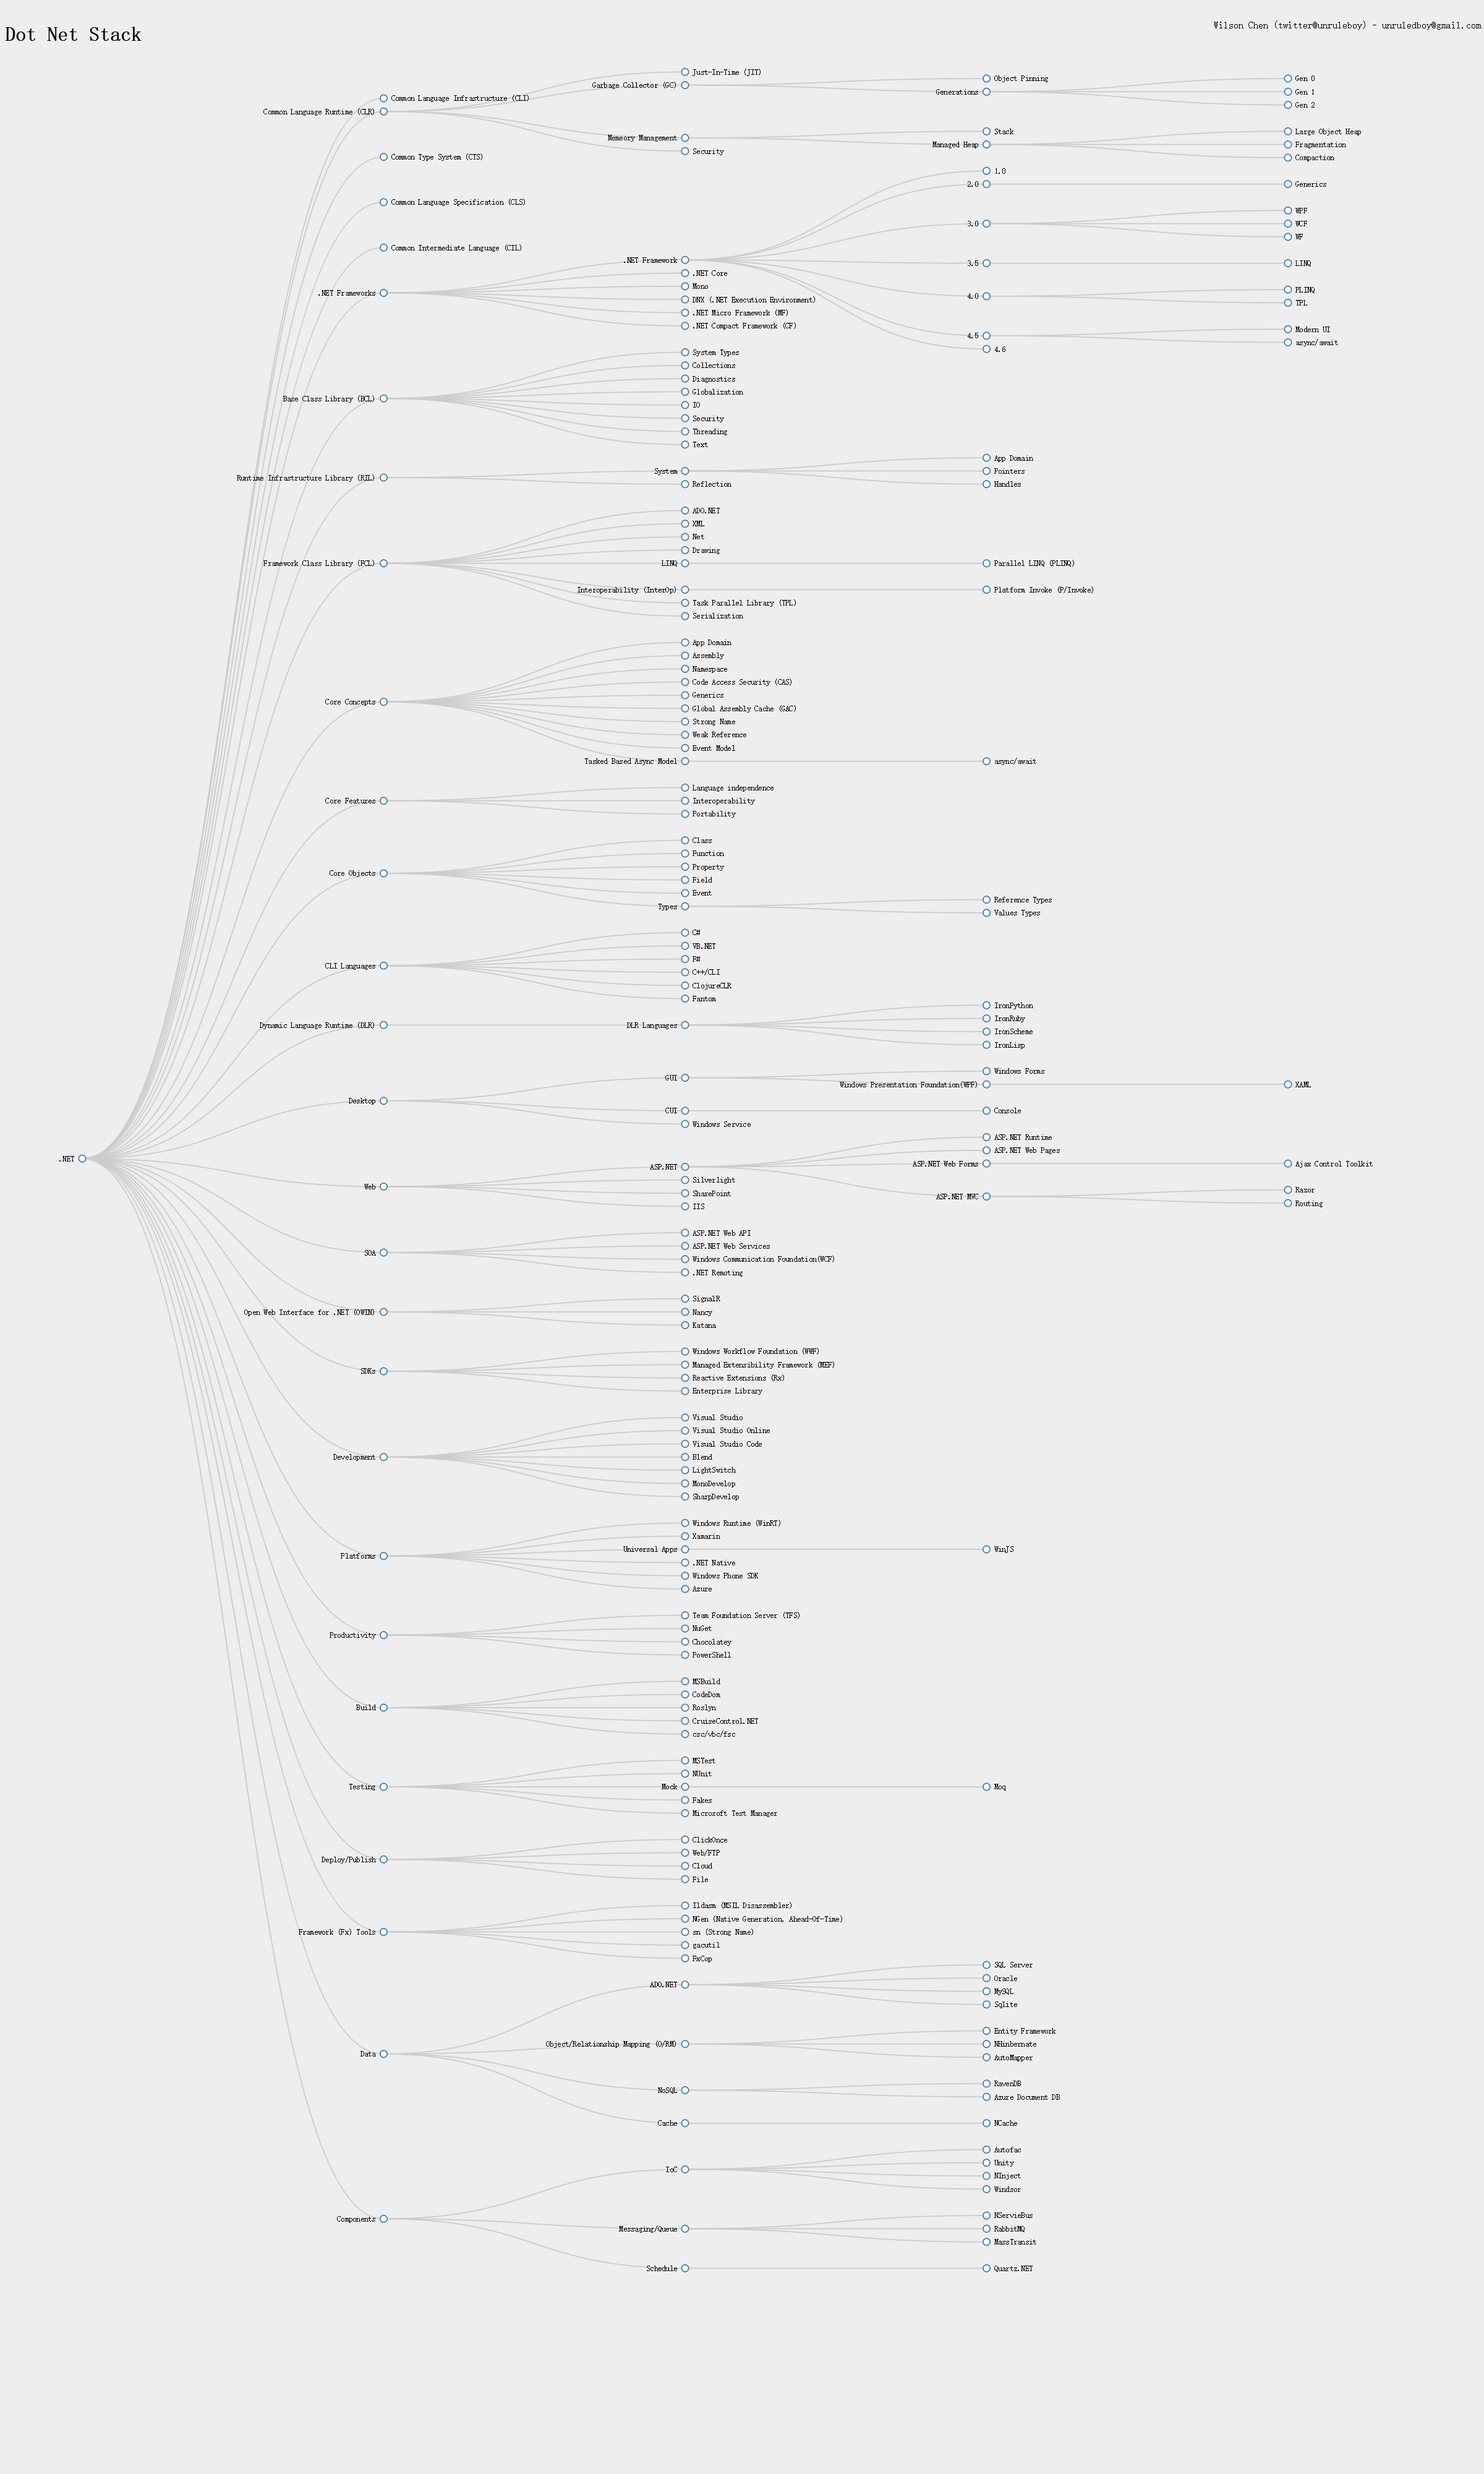
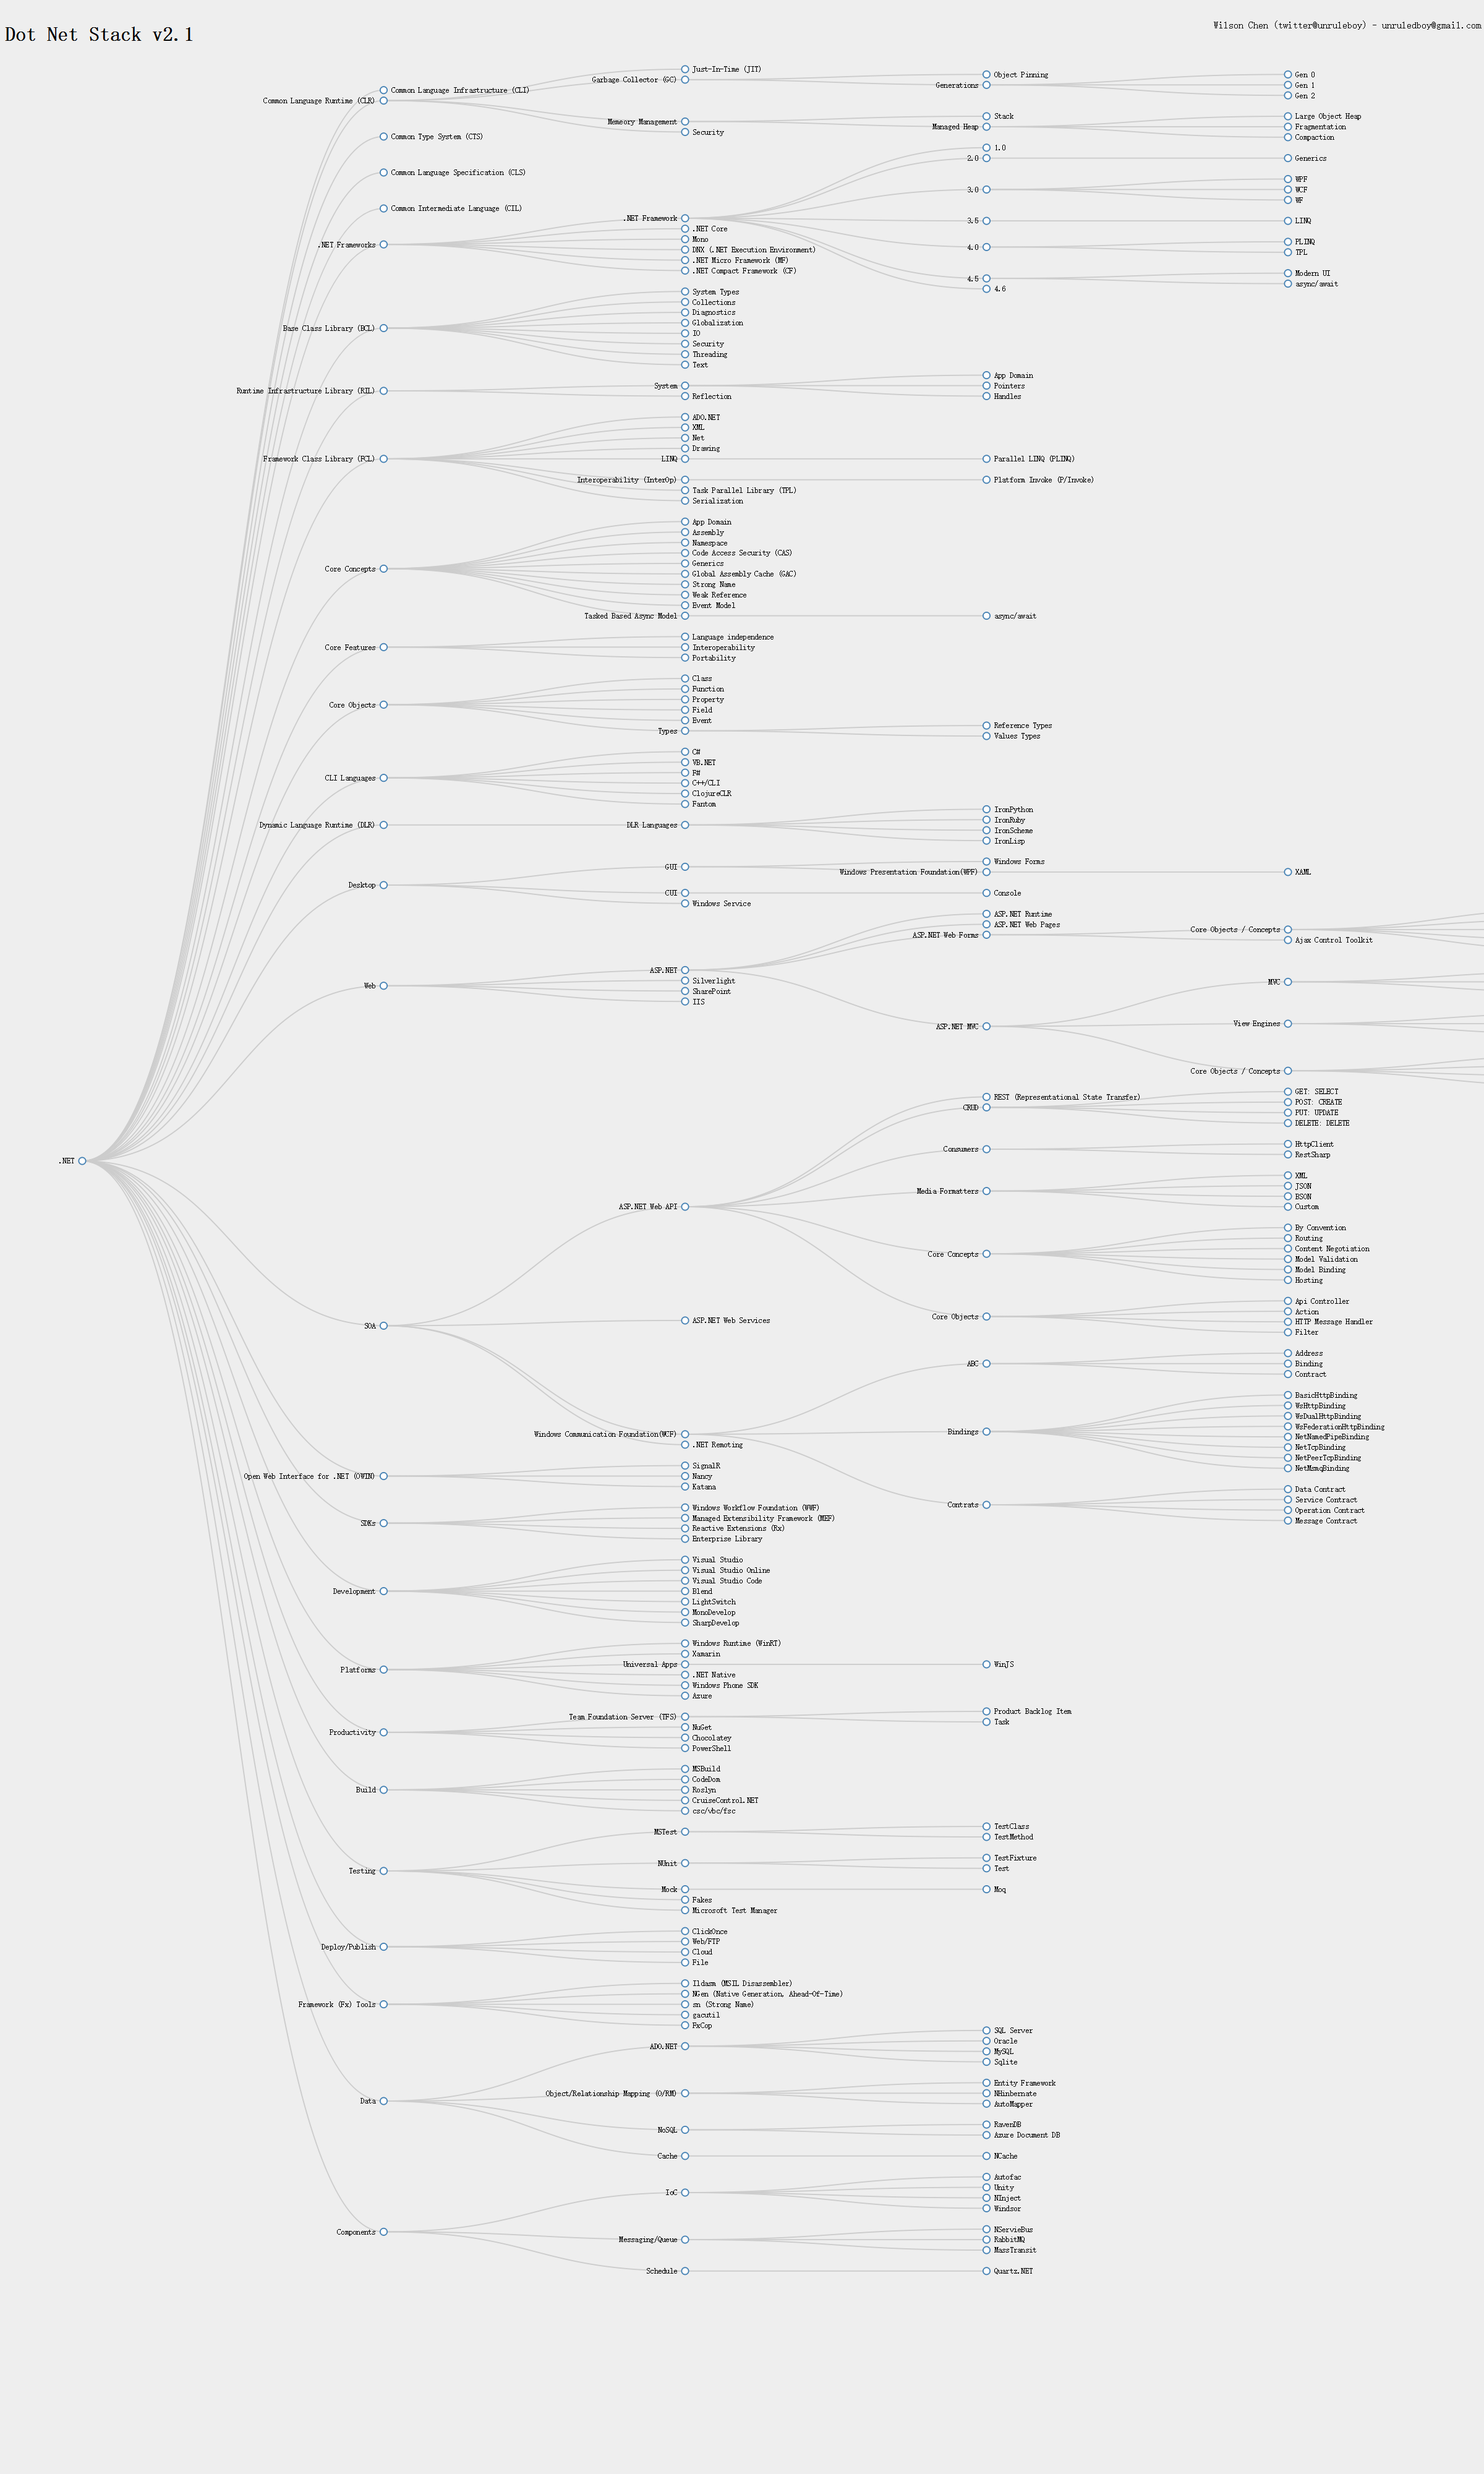
v2.1
added details for ASP.NET Web Forms, ASP.NET MVC, ASP.NET Web API, WCF,
TFS, Testing

diff --git a/ux/DotNetStack.htm b/ux/DotNetStack.htm
@@ -91,7 +91,7 @@
 <div class="container">
     <header>
         <div class="left">
-            <h1>Dot Net Stack</h1>
+            <h1>Dot Net Stack v2.1</h1>
         </div>
         <div class="right">
             <p><a href="http://github.com/unruledboy">Wilson Chen (twitter@unruleboy) - unruledboy@gmail.com</a></p>

diff --git a/README.md b/README.md
@@ -148,17 +148,78 @@ https://rawgit.com/unruledboy/DotNetStack/master/ux/DotNetStack.htm
 			- ASP.NET Runtime
 			- ASP.NET Web Pages
 			- ASP.NET Web Forms
+				- Core Objects / Concepts
+					- Web Form
+					- Web Controls
+					- Postback
+					- Session
+					- View State
 				- Ajax Control Toolkit
 			- ASP.NET MVC
-				- Razor
-				- Routing
+				- MVC
+					- Model
+					- View
+					- Controller
+				- View Engines
+					- Razor
+					- Web Forms
+					- Custom
+				- Core Objects / Concepts
+					- Routing
+					- Controller
+					- Action
+					- Filter
 		- Silverlight
 		- SharePoint
 		- IIS
 	- SOA
 		- ASP.NET Web API
+			- REST (Representational State Transfer)
+			- CRUD
+				- GET: SELECT
+				- POST: CREATE
+				- PUT: UPDATE
+				- DELETE: DELETE
+			- Consumers
+				- HttpClient
+				- RestSharp
+			- Media Formatters
+				- XML
+				- JSON
+				- BSON
+				- Custom
+			- Core Concepts
+				- By Convention
+				- Routing
+				- Content Negotiation
+				- Model Validation
+				- Model Binding
+				- Hosting
+			- Core Objects
+				- Api Controller
+				- Action
+				- HTTP Message Handler
+				- Filter
 		- ASP.NET Web Services
 		- Windows Communication Foundation(WCF)
+			- ABC
+				- Address
+				- Binding
+				- Contract
+			- Bindings
+				- BasicHttpBinding
+				- WsHttpBinding
+				- WsDualHttpBinding
+				- WsFederationHttpBinding
+				- NetNamedPipeBinding
+				- NetTcpBinding
+				- NetPeerTcpBinding
+				- NetMsmqBinding
+			- Contrats
+				- Data Contract
+				- Service Contract
+				- Operation Contract
+				- Message Contract
 		- .NET Remoting
 	- Open Web Interface for .NET (OWIN)
 		- SignalR
@@ -187,6 +248,8 @@ https://rawgit.com/unruledboy/DotNetStack/master/ux/DotNetStack.htm
 		- Azure
 	- Productivity
 		- Team Foundation Server (TFS)
+			- Product Backlog Item
+			- Task
 		- NuGet
 		- Chocolatey
 		- PowerShell
@@ -198,7 +261,11 @@ https://rawgit.com/unruledboy/DotNetStack/master/ux/DotNetStack.htm
 		- csc/vbc/fsc
 	- Testing
 		- MSTest
+			- TestClass
+			- TestMethod
 		- NUnit
+			- TestFixture
+			- Test
 		- Mock
 			- Moq
 		- Fakes
